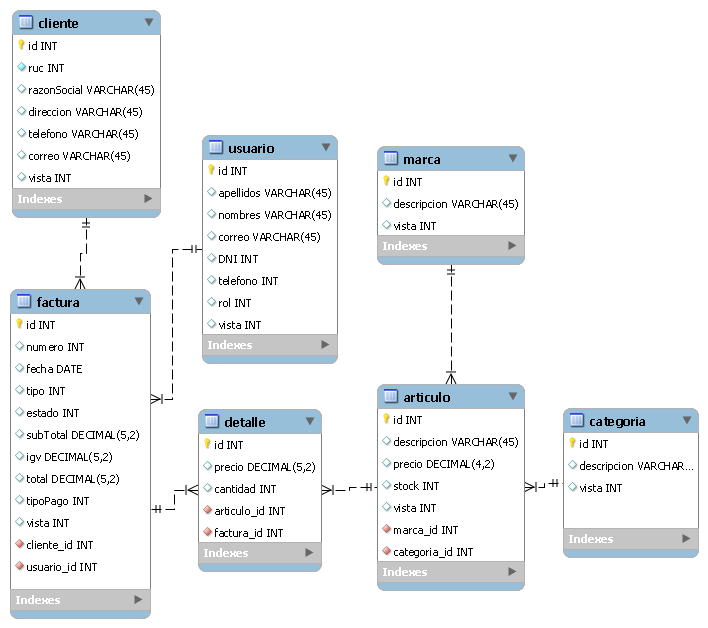
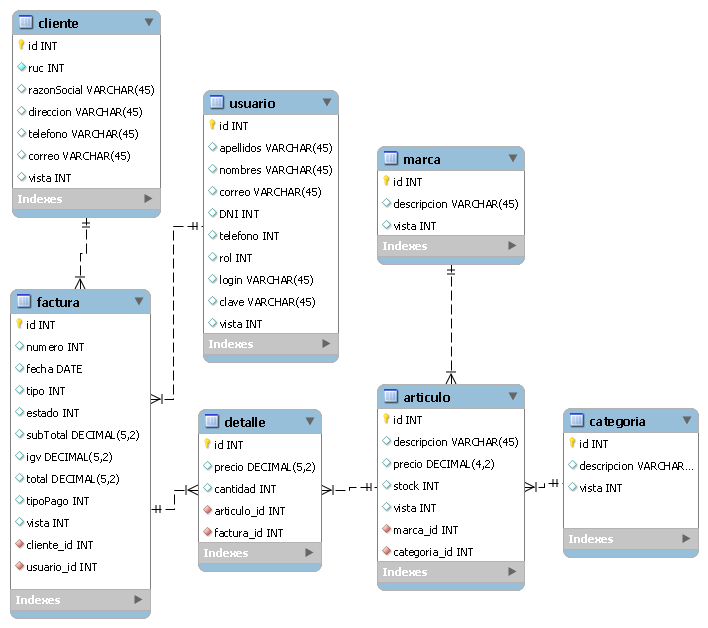
Se agrega 2 campos a jpa usuario(login,clave)

Changed region(s): [[0.2797, 0.121, 0.4972, 0.6051]]

diff --git a/WSSFacturacion2020/src/main/java/pe/edu/idat/sfacturacion/dao/entity/Usuario.java b/WSSFacturacion2020/src/main/java/pe/edu/idat/sfacturacion/dao/entity/Usuario.java
@@ -34,6 +34,10 @@ public class Usuario implements Serializable {
 	private String telefono;
 	@Column(name="rol")
 	private int rol;
+	@Column(name="login")
+	private String login;
+	@Column(name="clave")
+	private String clave;
 	@Column(name="vista")
 	private int vista;
 	@OneToMany(cascade = CascadeType.ALL, mappedBy = "usuario")
@@ -42,8 +46,9 @@ public class Usuario implements Serializable {
 		super();
 		// TODO Auto-generated constructor stub
 	}
+	
 	public Usuario(int id, String apellidos, String nombres, String dni, String correo, String telefono, int rol,
-			int vista) {
+			String login, String clave, int vista) {
 		super();
 		this.id = id;
 		this.apellidos = apellidos;
@@ -52,10 +57,13 @@ public class Usuario implements Serializable {
 		this.correo = correo;
 		this.telefono = telefono;
 		this.rol = rol;
-		this.vista = vista;		
+		this.login = login;
+		this.clave = clave;
+		this.vista = vista;
 	}
+
 	public Usuario(int id, String apellidos, String nombres, String dni, String correo, String telefono, int rol,
-			int vista, List<Factura> listaFactura) {
+			String login, String clave, int vista, List<Factura> listaFactura) {
 		super();
 		this.id = id;
 		this.apellidos = apellidos;
@@ -64,9 +72,12 @@ public class Usuario implements Serializable {
 		this.correo = correo;
 		this.telefono = telefono;
 		this.rol = rol;
+		this.login = login;
+		this.clave = clave;
 		this.vista = vista;
 		this.listaFactura = listaFactura;
 	}
+
 	public int getId() {
 		return id;
 	}
@@ -115,6 +126,23 @@ public class Usuario implements Serializable {
 	public void setVista(int vista) {
 		this.vista = vista;
 	}
+	
+	public String getLogin() {
+		return login;
+	}
+
+	public void setLogin(String login) {
+		this.login = login;
+	}
+
+	public String getClave() {
+		return clave;
+	}
+
+	public void setClave(String clave) {
+		this.clave = clave;
+	}
+
 	public List<Factura> getListaFactura() {
 		return listaFactura;
 	}

diff --git a/WSSFacturacion2020/src/main/java/pe/edu/idat/sfacturacion/model/MUsuario.java b/WSSFacturacion2020/src/main/java/pe/edu/idat/sfacturacion/model/MUsuario.java
@@ -10,6 +10,8 @@ public class MUsuario {
 	private String correo;
 	private String telefono;
 	private int rol;
+	private String login;
+	private String clave;
 	private int vista;
 	public MUsuario() {
 		super();
@@ -24,10 +26,14 @@ public class MUsuario {
 		this.correo = usuario.getCorreo();
 		this.telefono = usuario.getTelefono();
 		this.rol = usuario.getRol();
+		this.login = usuario.getLogin();
+		this.clave = usuario.getClave();
 		this.vista = usuario.getVista();
 	}
+	
+	
 	public MUsuario(int id, String apellidos, String nombres, String dni, String correo, String telefono, int rol,
-			int vista) {
+			String login, String clave, int vista) {
 		super();
 		this.id = id;
 		this.apellidos = apellidos;
@@ -36,7 +42,21 @@ public class MUsuario {
 		this.correo = correo;
 		this.telefono = telefono;
 		this.rol = rol;
+		this.login = login;
+		this.clave = clave;
 		this.vista = vista;
+	}
+	public String getLogin() {
+		return login;
+	}
+	public void setLogin(String login) {
+		this.login = login;
+	}
+	public String getClave() {
+		return clave;
+	}
+	public void setClave(String clave) {
+		this.clave = clave;
 	}
 	public int getId() {
 		return id;

diff --git a/WSSFacturacion2020/src/main/java/pe/edu/idat/sfacturacion/controller/CUsuario.java b/WSSFacturacion2020/src/main/java/pe/edu/idat/sfacturacion/controller/CUsuario.java
@@ -70,6 +70,6 @@ public class CUsuario {
 	}
 	public Usuario invertir(MUsuario usuario) {		
 		return new Usuario(usuario.getId(),usuario.getApellidos(),usuario.getNombres(),usuario.getDni()
-				,usuario.getCorreo(),usuario.getTelefono(),usuario.getRol(),usuario.getVista());
+				,usuario.getCorreo(),usuario.getTelefono(),usuario.getRol(),usuario.getLogin(),usuario.getClave(),usuario.getVista());
 	}	
 }

diff --git a/WSSFacturacion2020/src/main/java/pe/edu/idat/sfacturacion/dao/repository/RCategoria.java b/WSSFacturacion2020/src/main/java/pe/edu/idat/sfacturacion/dao/repository/RCategoria.java
@@ -1,9 +1,10 @@
 package pe.edu.idat.sfacturacion.dao.repository;
 
 import org.springframework.data.repository.CrudRepository;
+import org.springframework.stereotype.Repository;
 
 import pe.edu.idat.sfacturacion.dao.entity.Categoria;
-
+@Repository
 public interface RCategoria extends CrudRepository<Categoria, Integer> {
 
 }

diff --git a/WSSFacturacion2020/src/main/java/pe/edu/idat/sfacturacion/dao/repository/RArticulo.java b/WSSFacturacion2020/src/main/java/pe/edu/idat/sfacturacion/dao/repository/RArticulo.java
@@ -1,9 +1,10 @@
 package pe.edu.idat.sfacturacion.dao.repository;
 
 import org.springframework.data.repository.CrudRepository;
+import org.springframework.stereotype.Repository;
 
 import pe.edu.idat.sfacturacion.dao.entity.Articulo;
-
+@Repository
 public interface RArticulo extends CrudRepository<Articulo, Integer> {
 
 }

diff --git a/WSSFacturacion2020/src/main/java/pe/edu/idat/sfacturacion/dao/repository/RCliente.java b/WSSFacturacion2020/src/main/java/pe/edu/idat/sfacturacion/dao/repository/RCliente.java
@@ -1,9 +1,10 @@
 package pe.edu.idat.sfacturacion.dao.repository;
 
 import org.springframework.data.repository.CrudRepository;
+import org.springframework.stereotype.Repository;
 
 import pe.edu.idat.sfacturacion.dao.entity.Cliente;
-
+@Repository
 public interface RCliente extends CrudRepository<Cliente, Integer> {
 
 }

diff --git a/WSSFacturacion2020/src/main/java/pe/edu/idat/sfacturacion/dao/repository/RDetalle.java b/WSSFacturacion2020/src/main/java/pe/edu/idat/sfacturacion/dao/repository/RDetalle.java
@@ -1,9 +1,10 @@
 package pe.edu.idat.sfacturacion.dao.repository;
 
 import org.springframework.data.repository.CrudRepository;
+import org.springframework.stereotype.Repository;
 
 import pe.edu.idat.sfacturacion.dao.entity.Detalle;
-
+@Repository
 public interface RDetalle extends CrudRepository<Detalle, Integer> {
 
 }

diff --git a/WSSFacturacion2020/src/main/java/pe/edu/idat/sfacturacion/dao/repository/RFactura.java b/WSSFacturacion2020/src/main/java/pe/edu/idat/sfacturacion/dao/repository/RFactura.java
@@ -1,9 +1,10 @@
 package pe.edu.idat.sfacturacion.dao.repository;
 
 import org.springframework.data.repository.CrudRepository;
+import org.springframework.stereotype.Repository;
 
 import pe.edu.idat.sfacturacion.dao.entity.Factura;
-
+@Repository
 public interface RFactura extends CrudRepository<Factura, Integer> {
 
 }

diff --git a/WSSFacturacion2020/src/main/java/pe/edu/idat/sfacturacion/dao/repository/RUsuario.java b/WSSFacturacion2020/src/main/java/pe/edu/idat/sfacturacion/dao/repository/RUsuario.java
@@ -1,9 +1,10 @@
 package pe.edu.idat.sfacturacion.dao.repository;
 
 import org.springframework.data.repository.CrudRepository;
+import org.springframework.stereotype.Repository;
 
 import pe.edu.idat.sfacturacion.dao.entity.Usuario;
-
+@Repository
 public interface RUsuario extends CrudRepository<Usuario, Integer> {
 
 }

diff --git a/WSSFacturacion2020/src/main/java/pe/edu/idat/sfacturacion/dao/repository/RMarca.java b/WSSFacturacion2020/src/main/java/pe/edu/idat/sfacturacion/dao/repository/RMarca.java
@@ -1,9 +1,10 @@
 package pe.edu.idat.sfacturacion.dao.repository;
 
 import org.springframework.data.repository.CrudRepository;
+import org.springframework.stereotype.Repository;
 
 import pe.edu.idat.sfacturacion.dao.entity.Marca;
-
+@Repository
 public interface RMarca extends CrudRepository<Marca, Integer> {
 
 }
